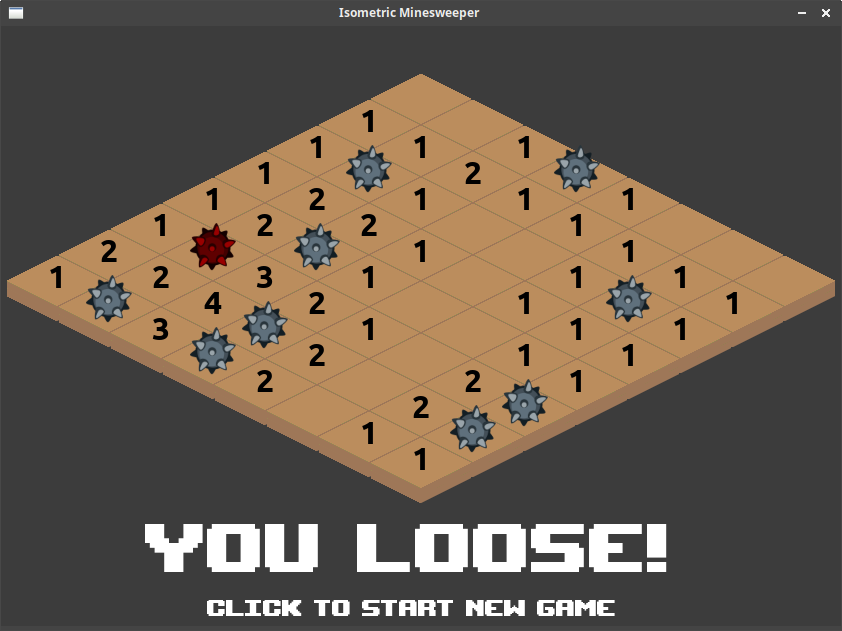
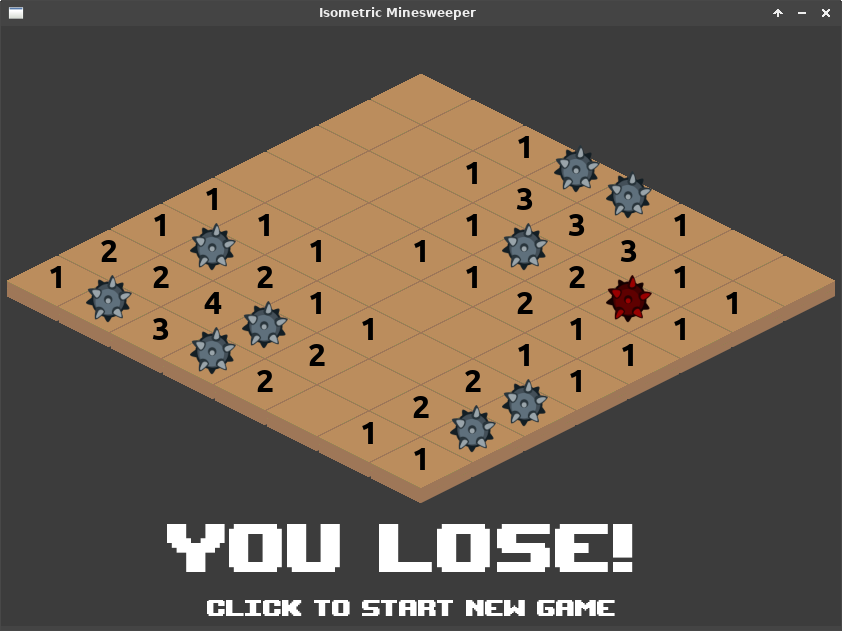
#6 typo fix

diff --git a/src/Gui.cpp b/src/Gui.cpp
@@ -6,7 +6,7 @@ Gui::Gui(SDL_Renderer *_renderer, TextureLoader *_textureLoader)
     textureLoader = _textureLoader;
 
     youWonTex = textureLoader->load("resources/images/you-won.png");
-    youLooseTex = textureLoader->load("resources/images/you-loose.png");
+    youLooseTex = textureLoader->load("resources/images/you-lose.png");
 }
 
 Gui::~Gui()

diff --git a/src/Game.cpp b/src/Game.cpp
@@ -55,7 +55,7 @@ void Game::mainLoop()
         frameTime = SDL_GetTicks() - frameStart;
 
         if (frameDelay > frameTime) {
-            SDL_Delay(frameDelay - frameTime);
+            //SDL_Delay(frameDelay - frameTime);
         }
     }
 }
